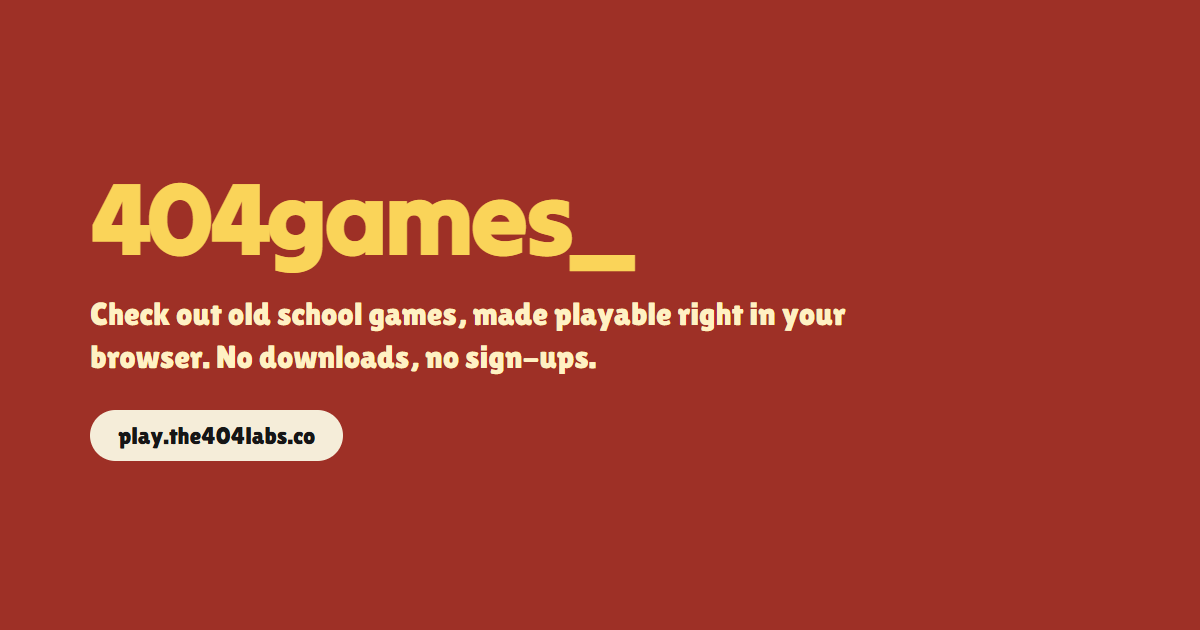
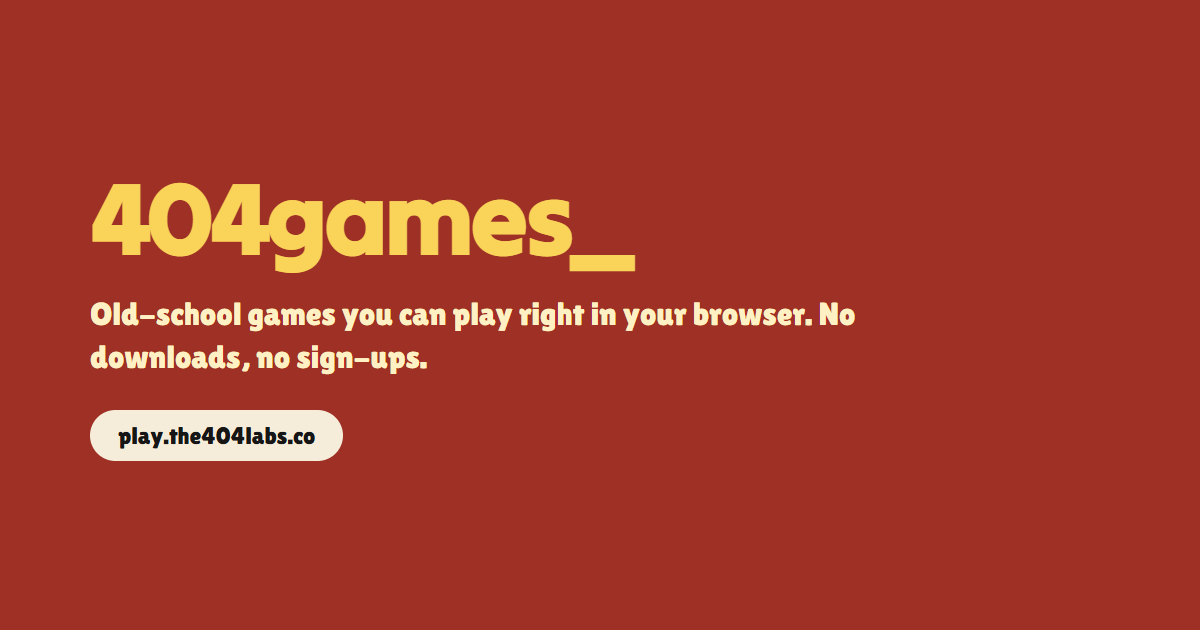
Add the content guide; rewrite the social card lines; release 0.7.0
CONTENT.md is the standard for every word a visitor reads, modelled on
The Funday Press. DESIGN.md and the agent skill point to it.

Changed region(s): [[0.0617, 0.4825, 0.7092, 0.6032]]

diff --git a/CONTENT.md b/CONTENT.md
@@ -1,0 +1,218 @@
+# the404labs content guide
+
+How the404labs, 404shop and 404games talk. It covers every word a visitor reads: headlines, buttons, product blurbs, error messages, FAQs, legal pages, page titles and social cards.
+
+[DESIGN.md](DESIGN.md) says how things look. This says how they sound. Names and capitalisation are in DESIGN.md under "Name" and are not repeated here.
+
+## The idea
+
+We sound like one person from a small studio talking to one visitor. Friendly, plain, a bit playful, and honest about what's finished and what isn't.
+
+The reference is [The Funday Press](https://thefundaypress.com/). Read its home page and its FAQ before writing anything long. What we take from it:
+
+- **It says what the thing is in one line.** "A monthly newspaper filled with games & fun facts. No news." You know what you're getting before you scroll.
+- **Its headings are the visitor's questions.** "What's inside?" "Who's behind this?" Not "Features" and "About".
+- **It counts.** "20 handcrafted games and puzzles." A number you can check beats an adjective you can't.
+- **It answers first.** Every FAQ answer opens with the answer: "Yes.", "At this time, we're only available within the United States."
+- **It sounds like the people who made it.** "If it gets a 'I wanna play again,' it stays." There's a note from the creator, signed.
+- **It's warm when something goes wrong.** "Sometimes USPS delivery can take a little longer than expected (ugh!), but we'll do our best to make it right."
+
+## The test
+
+Read it out loud. If you wouldn't say it to someone across a table, rewrite it.
+
+Then ask three things:
+
+1. **Is it true today?** Not after the next release. Today.
+2. **Could a visitor repeat it?** If they can't say back what the page is for, the first line isn't plain enough.
+3. **Would it still be true on a competitor's site?** "Quality products, made with care" fits everyone, so it says nothing. "220gsm cotton, boxy fit" only fits the tee.
+
+## Seven rules
+
+### 1. Say what it is, first
+
+The first line on a page or a section names the thing. Cleverness can come second.
+
+| Instead of | Write |
+| --- | --- |
+| Welcome to a new way to play | Old-school games you can play right in your browser. |
+| Elevate your wardrobe | Tees, hoodies and caps from the404labs. |
+
+### 2. Use the words people use
+
+Short, common words. "Use", not "utilise". "Help", not "empower". "Buy", not "purchase". If a term needs explaining, use the explanation and drop the term.
+
+We say "we" and "you". We don't say "users", "customers" or "players" to the person reading; they are "you".
+
+Contractions are fine and usually better: "we're", "it's", "doesn't".
+
+### 3. Be specific
+
+Give the number, the name or the material. Then keep it current: a number that has gone stale is worse than no number.
+
+| Instead of | Write |
+| --- | --- |
+| Premium heavyweight fabric | 400gsm brushed fleece |
+| We respond quickly | A real person reads it |
+| Lots of fun games | Football, ping pong, running, basketball and bike |
+
+### 4. Tell the truth about where things stand
+
+This is the rule that matters most, because the sites are young and some parts are not finished.
+
+- If checkout is a demo, the page says so, next to the button, in plain words.
+- Don't promise what the site can't do. No "we'll email you" unless something actually sends that email.
+- Don't promise a feeling. "You'll love it" and "You'll feel calmer" are guesses. "Most people finish a round in a better mood" is a claim, and it needs its source beside it.
+- No invented numbers, testimonials, clients or awards. If we don't have one, we don't mention one.
+- Placeholder text never ships. If the real words aren't ready, leave the section out.
+
+### 5. One thought per sentence
+
+Short sentences. Most paragraphs are one to three of them. When a sentence wants a dash or a semicolon, it usually wants to be two sentences.
+
+| Instead of | Write |
+| --- | --- |
+| Checkout isn't wired up yet, so nothing ships today — build your cart and we'll let you know. | Checkout isn't wired up yet, so nothing ships today. |
+| Not yet — shown prices are the item price. | Not yet. The price shown is the price of the item. |
+
+### 6. One joke per screen, at most
+
+The name is already a joke. The shop's product names are jokes. That is plenty. A joke goes in a headline or a blurb, never in a button, an error message, a price or anything legal. If a joke makes the line less clear, cut the joke.
+
+### 7. Write for the moment the reader is in
+
+Someone who just lost a game wants one line and a way to play again. Someone whose form failed wants to know what happened and what to do. Someone reading the privacy page wants the facts in order. Same voice, different amount of it.
+
+| Moment | How much voice |
+| --- | --- |
+| Home pages, product blurbs, 404 pages | The most. This is where a joke can go. |
+| Forms, settings, checkout, game controls | Almost none. Clear and short. |
+| Errors, privacy, terms | None. Plain, calm and complete. |
+
+## How each kind of text works
+
+### Headlines
+
+- Sentence case, no full stop: "Your cart is empty".
+- A question is often the best heading, when it's the one the visitor has: "Can I actually buy anything right now?"
+- Section labels (eyebrows) are one to three words that say who or what the section is for.
+
+### Body copy
+
+- Lead with the point. Detail comes after, for whoever wants it.
+- "We" for the studio, "you" for the reader. Never "the user".
+- No sentence should need reading twice.
+
+### Buttons and links
+
+- A button says what happens when you press it: "Add to cart", "Say hello", "Play", "Back to the shop". Two or three words.
+- Never "Submit", "Click here", "Learn more" or "OK".
+- While something is happening, the same verb in progress: "Sending…", "Joining…".
+- A link's text makes sense on its own. "Read the privacy page", not "here".
+
+### Empty and loading states
+
+Say what's missing and what to do about it.
+
+- "Your cart is empty. Add something from the shop and it'll show up here."
+- "No scores yet"
+- "Not in a channel yet. Join one below, or start your own."
+
+### Errors
+
+What happened, then what to do. No blame, no "Oops", no exclamation marks, no error codes on their own.
+
+| Instead of | Write |
+| --- | --- |
+| Oops! Something went wrong. | Your message didn't send. Try again, or email hello@the404labs.co. |
+| Invalid input | Channel codes need to be 2 to 24 characters (letters, numbers, spaces, - or _). |
+| Error: clipboard unavailable | Couldn't copy automatically. Select the code above and copy it. |
+
+### Confirmations
+
+Say what just happened, in the past tense, and only what's true. A demo checkout doesn't say "Payment successful"; it says the demo is complete and that nothing was charged.
+
+### FAQs
+
+- The question is written the way a visitor would ask it, in the first person: "How do I get in touch?"
+- The answer starts with the answer. "Yes." "Not yet." "Email hello@the404labs.co."
+- Then one or two sentences of detail. If it needs more, it needs its own page.
+- Only real questions. Don't invent one to make room for a sales line.
+
+### Product blurbs (404shop)
+
+One line with the joke or the feeling, then the facts as a list: weight and fabric, fit, how it's printed. Care instructions are instructions and stay dry.
+
+### Game text (404games)
+
+- A game's description is its instruction, in a few words: "Tap the ball to keep it off the ground."
+- In-game messages can be lowercase and silly. That's the one place the voice gets loud.
+- Anything about a score, a name or a channel is plain: it's the player's data.
+
+### Privacy, terms and anything legal
+
+- Start with the short version in bold, then say "Everything below is all of it" only if it is.
+- Name the things: which cookie, which service, how long.
+- No jokes. Warmth is fine; it comes from being clear.
+- When the code changes what a site stores or sends, the page changes in the same commit.
+
+### Page titles and descriptions
+
+- Title: `404shop • tech merch from the404labs`. Sub-brand, a bullet, a plain description. Sub-pages: `the404labs • privacy`.
+- Description: one or two sentences that say what the site is, written to be read on its own in a search result or a link preview. No "Welcome to", no "Check out".
+- Social cards use the same line. The words live in [og/cards.json](og/cards.json).
+
+### Accessibility labels
+
+An `aria-label` or alt text is copy too. It says what the control does ("Close cart", "Copy channel code"), not what it looks like ("X button"). When a control's state changes, the label changes with it ("Channel code copied").
+
+## Punctuation and small things
+
+- **No em dashes or en dashes in anything a visitor reads.** Use a full stop, a comma or a colon. A dash usually means two sentences are pretending to be one.
+- No exclamation marks in interface text. One in a thank-you message is fine.
+- "and", not "&", in sentences. "&" is fine in a tight button label ("Add & view cart").
+- The serial comma is optional; be consistent inside one page.
+- Numbers as digits: "5 games", "3 sites", "$34".
+- The ellipsis is one character (…) and only means "in progress".
+- Emoji: none in interface text. In-game banners may use one.
+- Sentence case everywhere. Uppercase is a style applied in CSS, never typed.
+- Spelling is American in visitor-facing copy (color, canceled), because the studio is in Austin and the shop ships to the United States. Code comments and these documents are not copy.
+- Write the email address in full and make it a link: hello@the404labs.co.
+
+## Words
+
+| We say | We don't say |
+| --- | --- |
+| free to use | free forever, 100% free, no strings attached |
+| small | lightweight, bite-sized, micro |
+| demo | beta, coming soon, early access (unless it is) |
+| a real person | our team, our support staff |
+| say hello, email us | reach out, get in touch with our team, contact support |
+| build, make | craft, engineer, architect |
+| app, site, game | solution, platform, experience, product offering |
+| help | empower, enable, unlock |
+| use | leverage, utilise |
+| simple, plain | seamless, frictionless, intuitive |
+
+Words to leave out altogether: "delightful", "passionate", "cutting-edge", "world-class", "revolutionary", "curated", "elevate", "journey", "just" (as in "just click"), "simply", "easy" (let the reader decide).
+
+## What we know about ourselves
+
+Copy about the studio may only use facts from this list. To say something new, add it here first, and only if it's true.
+
+- the404labs is an independent product studio in Austin, TX.
+- We build small, user-first apps, most of them with AI in them, and keep them free to use.
+- We volunteer to build software for nonprofits.
+- We believe the gains from software and AI should reach everyone, especially communities that have been last in line for new technology.
+- Projects: Zhipper (a college marketplace), Sprout (a personal nutrition app), What's Good (a daily newsletter), 404shop (merch; checkout is a demo) and 404games (small browser games; no downloads, no sign-ups).
+- The address for everything is hello@the404labs.co, and a real person reads it.
+
+## Before it ships
+
+- [ ] Read aloud, it sounds like a person.
+- [ ] The first line says what the thing is.
+- [ ] Every claim is true today, and every number is current.
+- [ ] Nothing is promised that the site can't do.
+- [ ] No placeholder text, no dashes, no "Submit".
+- [ ] Buttons say what happens. Errors say what to do.
+- [ ] The names are written `the404labs`, `404shop`, `404games`.

diff --git a/skill/SKILL.md b/skill/SKILL.md
@@ -1,6 +1,6 @@
 ---
 name: 404-ds
-description: How to build or change UI on the404labs.co, 404shop and 404games. Use before writing or editing any component, page, stylesheet, colour, font, button, form field, sheet, header, footer, logo or social card in these repos, and whenever a task mentions the design system, brand, tones, tokens or accessibility settings.
+description: How to build or change UI, and how to write the words on it, for the404labs.co, 404shop and 404games. Use before writing or editing any component, page, stylesheet, colour, font, button, form field, sheet, header, footer, logo or social card in these repos, before writing or changing any text a visitor reads (headlines, button labels, errors, FAQs, product copy, legal pages, page titles), and whenever a task mentions the design system, brand, voice, copy, tones, tokens or accessibility settings.
 ---
 
 # the404labs design system
@@ -42,6 +42,17 @@ Read `node_modules/@the404labs/ds/DESIGN.md` before designing anything. It is th
 
 - `the404labs`, `404shop`, `404games`: lowercase, joined, always. Never "The 404 Labs" or "404 Shop".
 - The logo is the `Wordmark` or `Badge` component, or the SVGs in `@the404labs/ds/assets/`. Never set it in live text.
+
+## Words
+
+Read `node_modules/@the404labs/ds/CONTENT.md` before writing or changing any text a visitor reads. It is the standard for voice, and it has examples for every kind of text. The rules that get broken most:
+
+- The first line says what the thing is. Cleverness comes second.
+- Every claim is true today. Don't promise what the site can't do ("we'll email you"), don't promise a feeling, and don't invent numbers, clients or testimonials. Copy about the studio uses only the facts listed in CONTENT.md under "What we know about ourselves".
+- No placeholder text in anything that ships. If the real words aren't ready, leave the section out and say so.
+- No em dashes or en dashes in visitor-facing text. Use a full stop, a comma or a colon.
+- Buttons say what happens ("Add to cart", "Say hello"). Errors say what happened and what to do. No "Submit", no "Oops".
+- An `aria-label` is copy too.
 
 ## Pages
 

diff --git a/CHANGELOG.md b/CHANGELOG.md
@@ -1,5 +1,13 @@
 # Changelog
 
+## 0.7.0
+
+The words.
+
+- `CONTENT.md`: the content guide. How the three sites talk, modelled on The Funday Press: say what it is first, use the words people use, be specific, tell the truth about where things stand, one thought per sentence, one joke per screen. It has patterns for headlines, buttons, empty states, errors, FAQs, product blurbs, game text, legal pages, page titles and accessibility labels, a word list, and the short list of facts that copy about the studio may use.
+- `DESIGN.md`'s Voice section now points to it, and `skill/SKILL.md` tells an agent to read it before writing any text a visitor reads.
+- Social cards: the three lines in `og/cards.json` are rewritten to the guide (no dashes, no "Check out"), and the cards are re-rendered.
+
 ## 0.6.1
 
 - Fix: a reset made on one site did not hold on the site where the setting was first made. Each site kept its own local copy of the record next to the shared cookie, and fell back to it once the cookie was gone. On the404labs.co and its subdomains the cookie is now the only copy, and a site's old per-site record is removed once it has been carried into the cookie. Elsewhere (localhost, preview URLs) the record stays in local storage as before. Found by testing the live sites after release; the earlier simulated test only ever reset on the site that had made the change.

diff --git a/DESIGN.md b/DESIGN.md
@@ -168,11 +168,14 @@ Accessibility is part of the brand, not a compliance layer.
 
 ## Voice
 
+The full standard for words is [CONTENT.md](CONTENT.md): how headlines, buttons, errors, FAQs, legal pages and social cards are written, with examples. The short version:
+
 - Lowercase where the brand speaks (wordmark, titles, taglines). Normal sentence case in body copy.
 - Short and plain. "No downloads, no sign-ups." "Free to use."
-- Honest about limits. If checkout is a demo, say so on the page. If a policy is a placeholder, say that too.
+- Honest about limits. If checkout is a demo, say so on the page. Never promise what the site can't do.
 - One joke per screen, at most. The name is already a joke; it doesn't need help.
 - Button labels say what happens: "Add to cart", "Say hello", "Play". Never "Submit" or "Click here".
+- No em dashes in anything a visitor reads, and no placeholder text in anything that ships.
 
 ## Social cards
 

diff --git a/README.md b/README.md
@@ -2,7 +2,7 @@
 
 The design system shared by [the404labs.co](https://the404labs.co), 404shop and 404games. One set of tokens, one base stylesheet, one accessibility contract.
 
-Brand rules and how to use the tokens: [DESIGN.md](DESIGN.md).
+Brand rules and how to use the tokens: [DESIGN.md](DESIGN.md). How the sites talk: [CONTENT.md](CONTENT.md).
 
 ## Install
 
